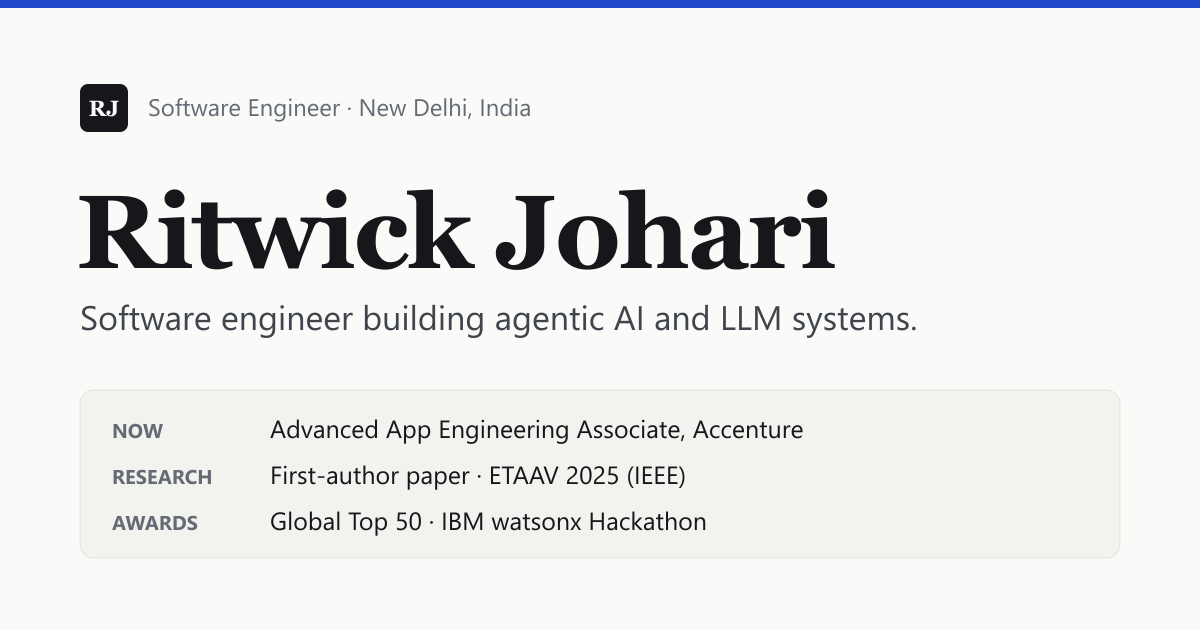
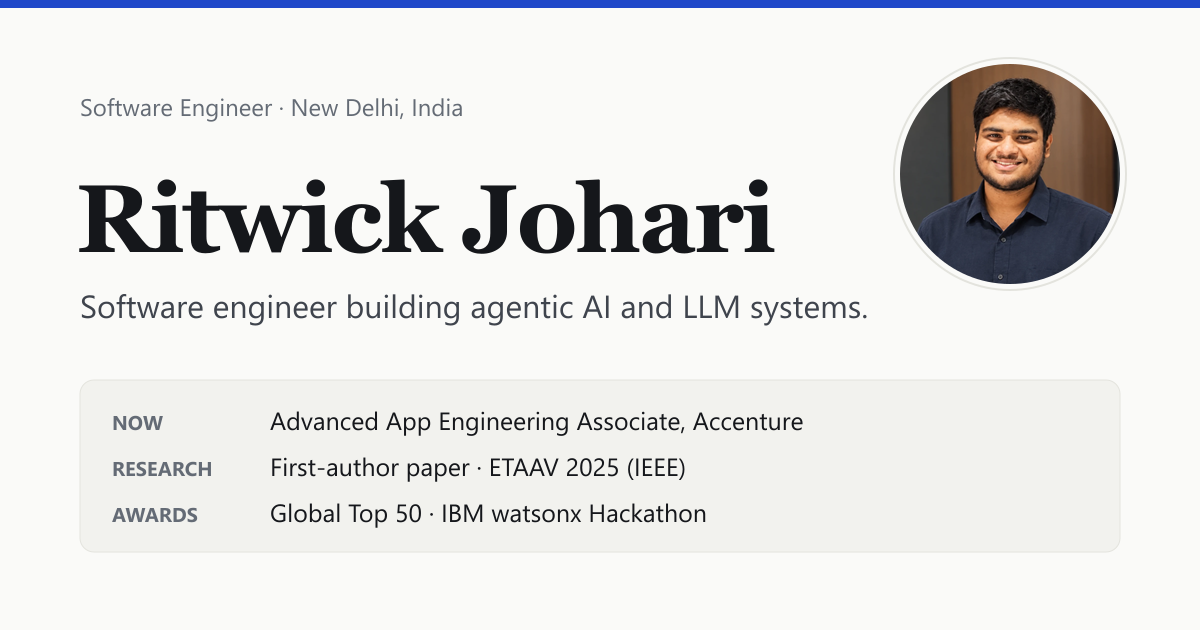
Photograph added

diff --git a/README.md b/README.md
@@ -28,8 +28,9 @@ No analytics or trackers are included.
 ├── .node-version            # Node 24, read by Render and nvm/fnm
 ├── astro.config.mjs         # SITE_URL / BASE_PATH configuration
 ├── public/                  # Copied as-is: resume.pdf, certificates/, og.png, favicons
-├── scripts/generate-og.mjs  # Regenerates og.png + PNG favicons (npm run og)
+├── scripts/generate-og.mjs  # Crops the portrait into avatars, favicons and og.png (npm run og)
 └── src/
+    ├── assets/              # portrait.webp (source photo) + generated avatar crops
     ├── data/                # ← ALL CONTENT LIVES HERE
     │   ├── profile.ts       #   name, current role, headline, intro, links, education, nav
     │   ├── projects.ts      #   projects, categories and link types
@@ -192,6 +193,7 @@ All content is in `src/data/*.ts`. Components read from it, so you rarely touch 
 - **Skills:** `skills.ts`.
 - **Resume:** replace `public/resume.pdf` (keep the filename).
 - **About text:** written prose lives in `components/sections/About.astro`.
+- **New photo:** replace `src/assets/portrait.webp`, adjust the `FACE` / `BUST` crop boxes in `scripts/generate-og.mjs` if needed, then run `npm run og`.
 - **Name, headline or current role change:** also run `npm run og` to regenerate the social preview image.
 - Run `npm run check && npm run build` before pushing.
 
